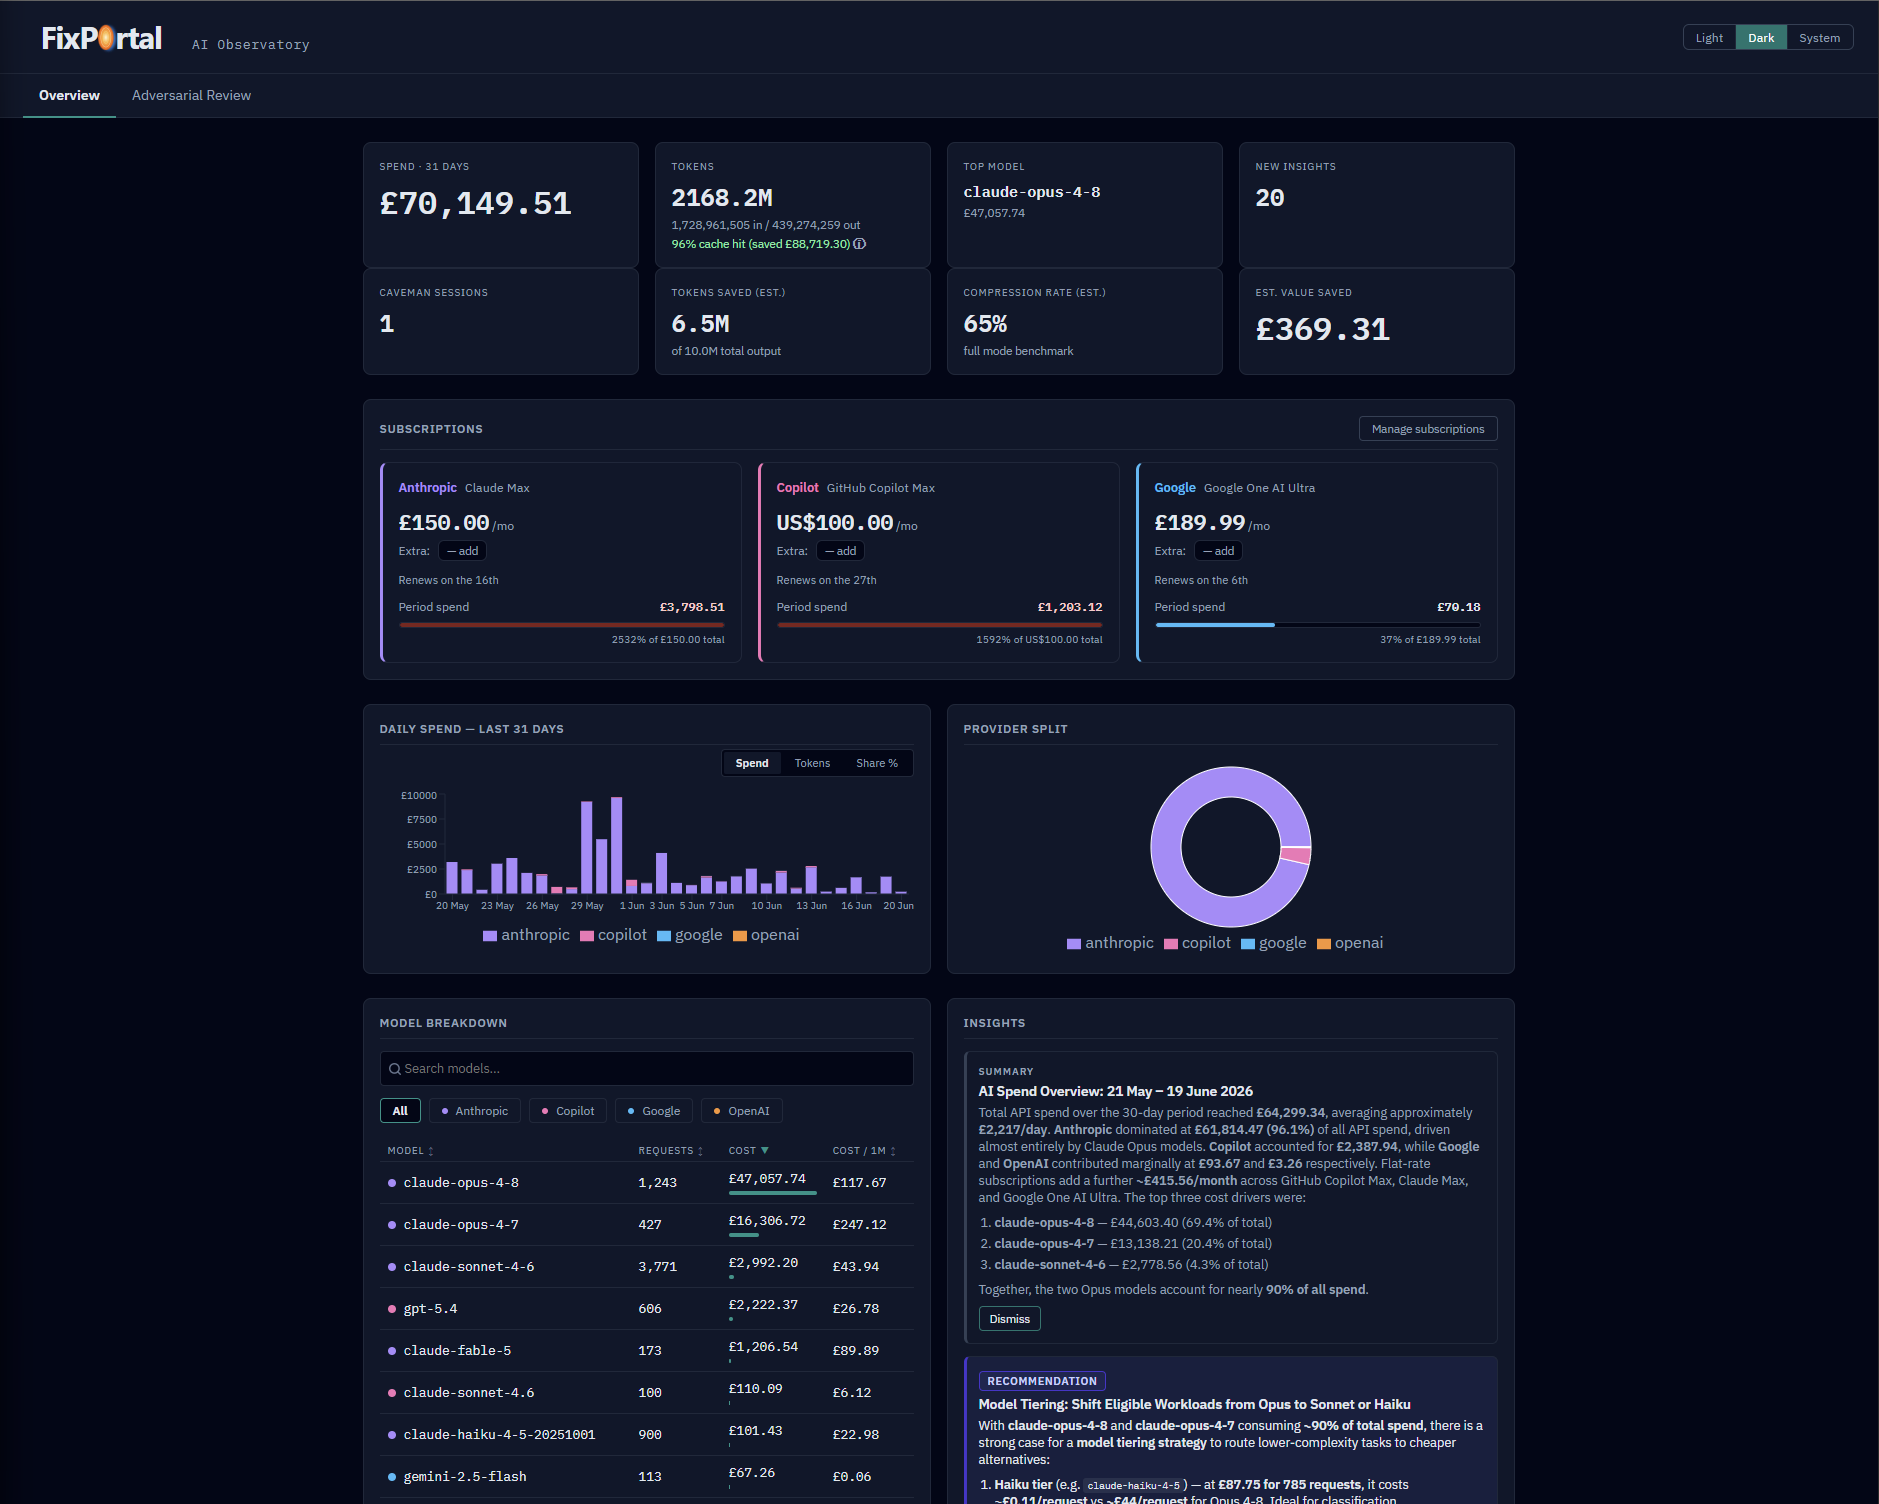
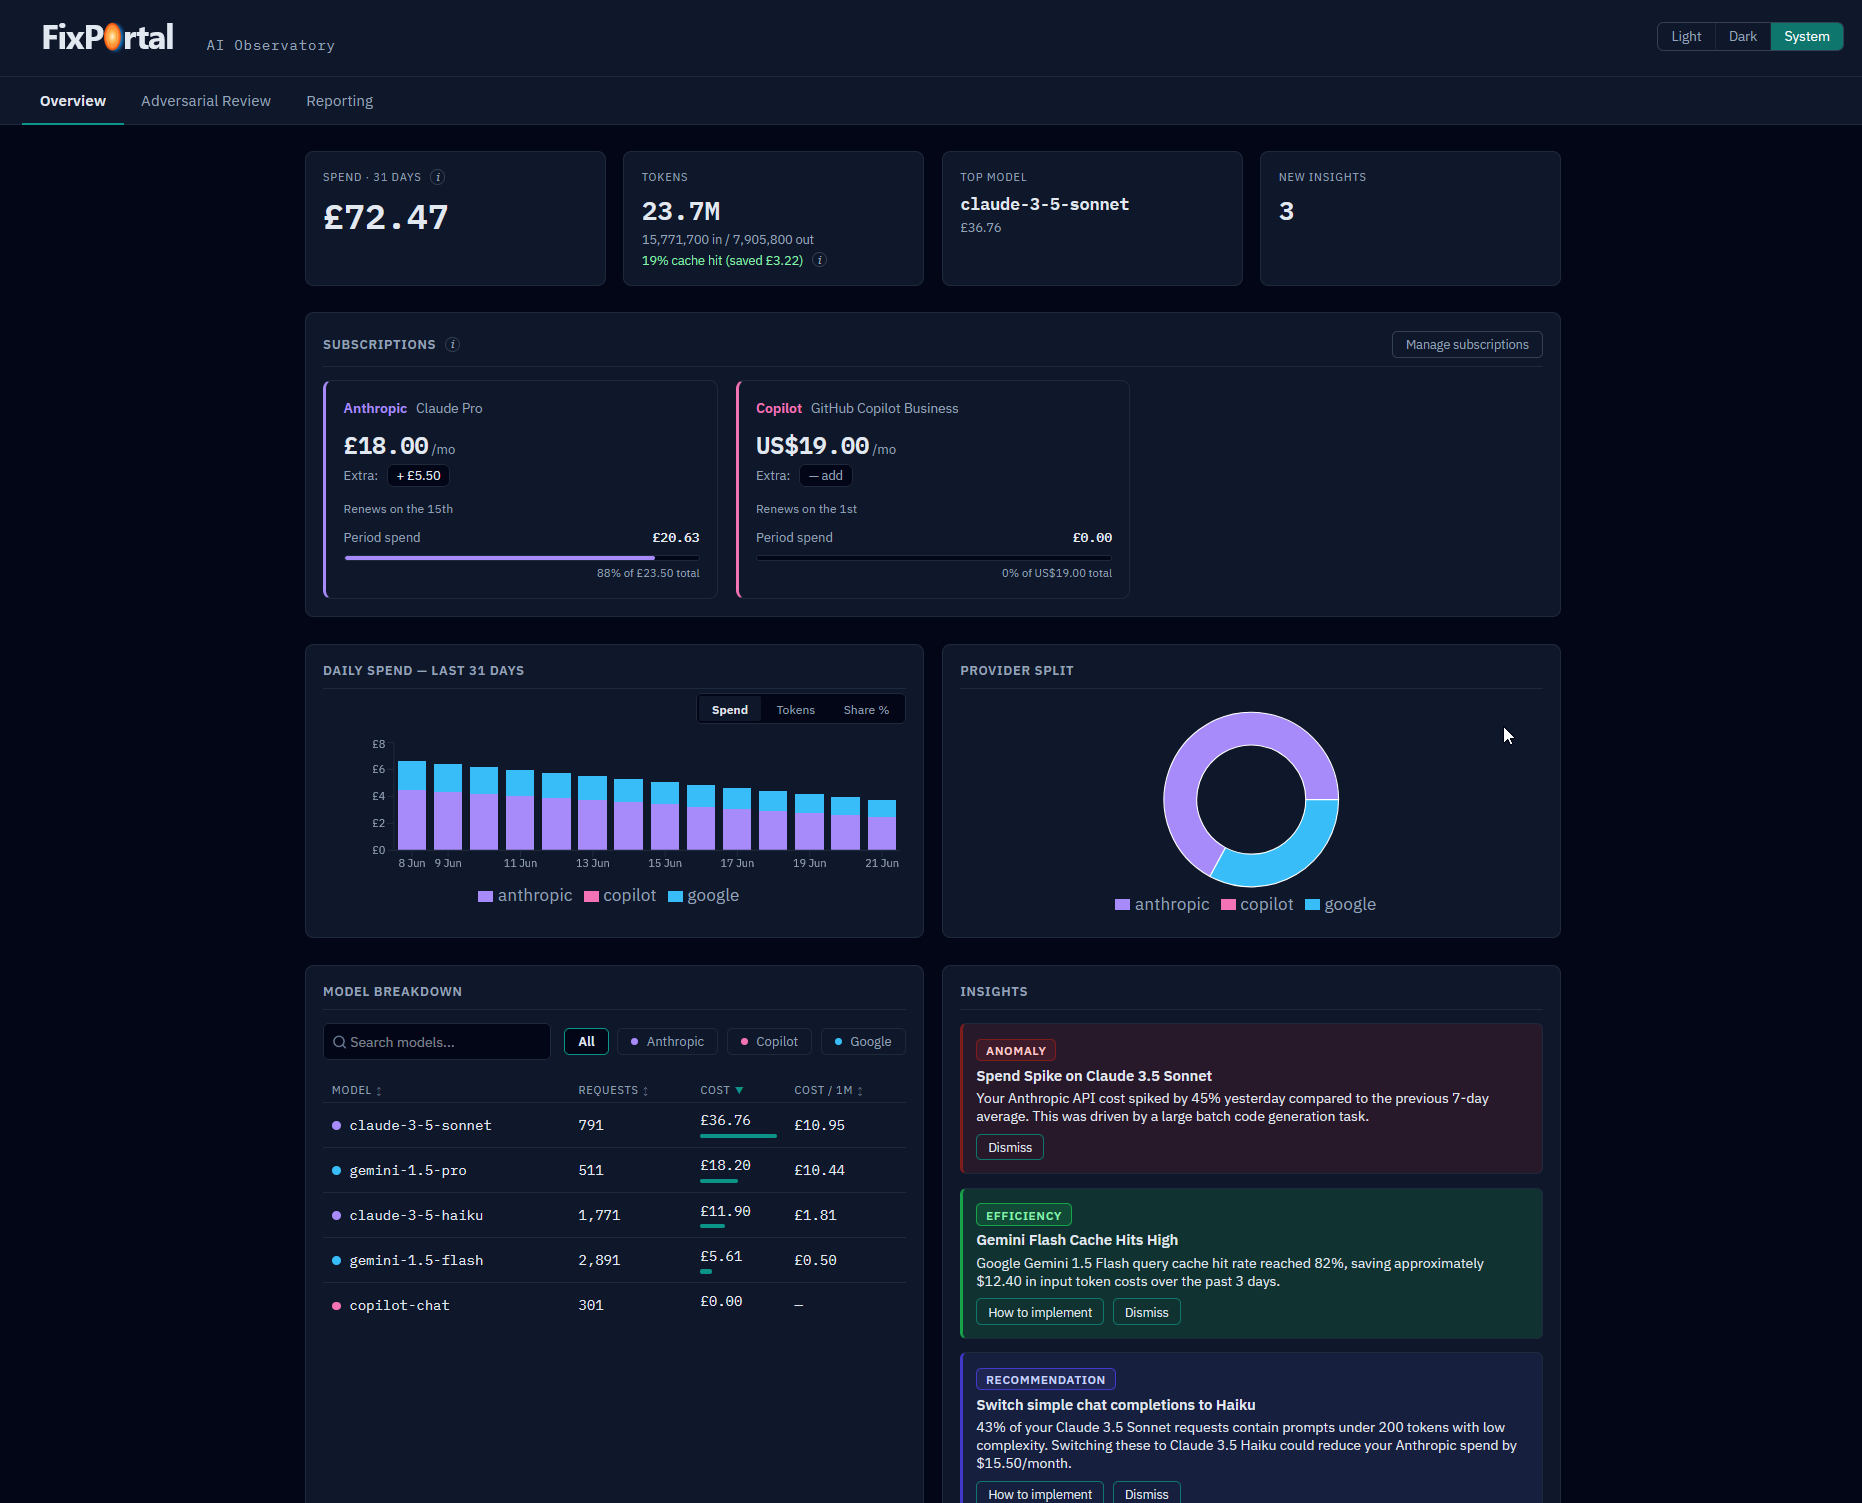
docs: update dashboard screenshot and add reporting screenshot to README

diff --git a/README.md b/README.md
@@ -19,6 +19,8 @@ license: Apache-2.0
 
 ![AI Observatory dashboard](docs/dashboard.png)
 
+![AI Observatory reporting](docs/reporting.png)
+
 ## What It Does
 
 - Aggregates daily token usage and costs per provider and model